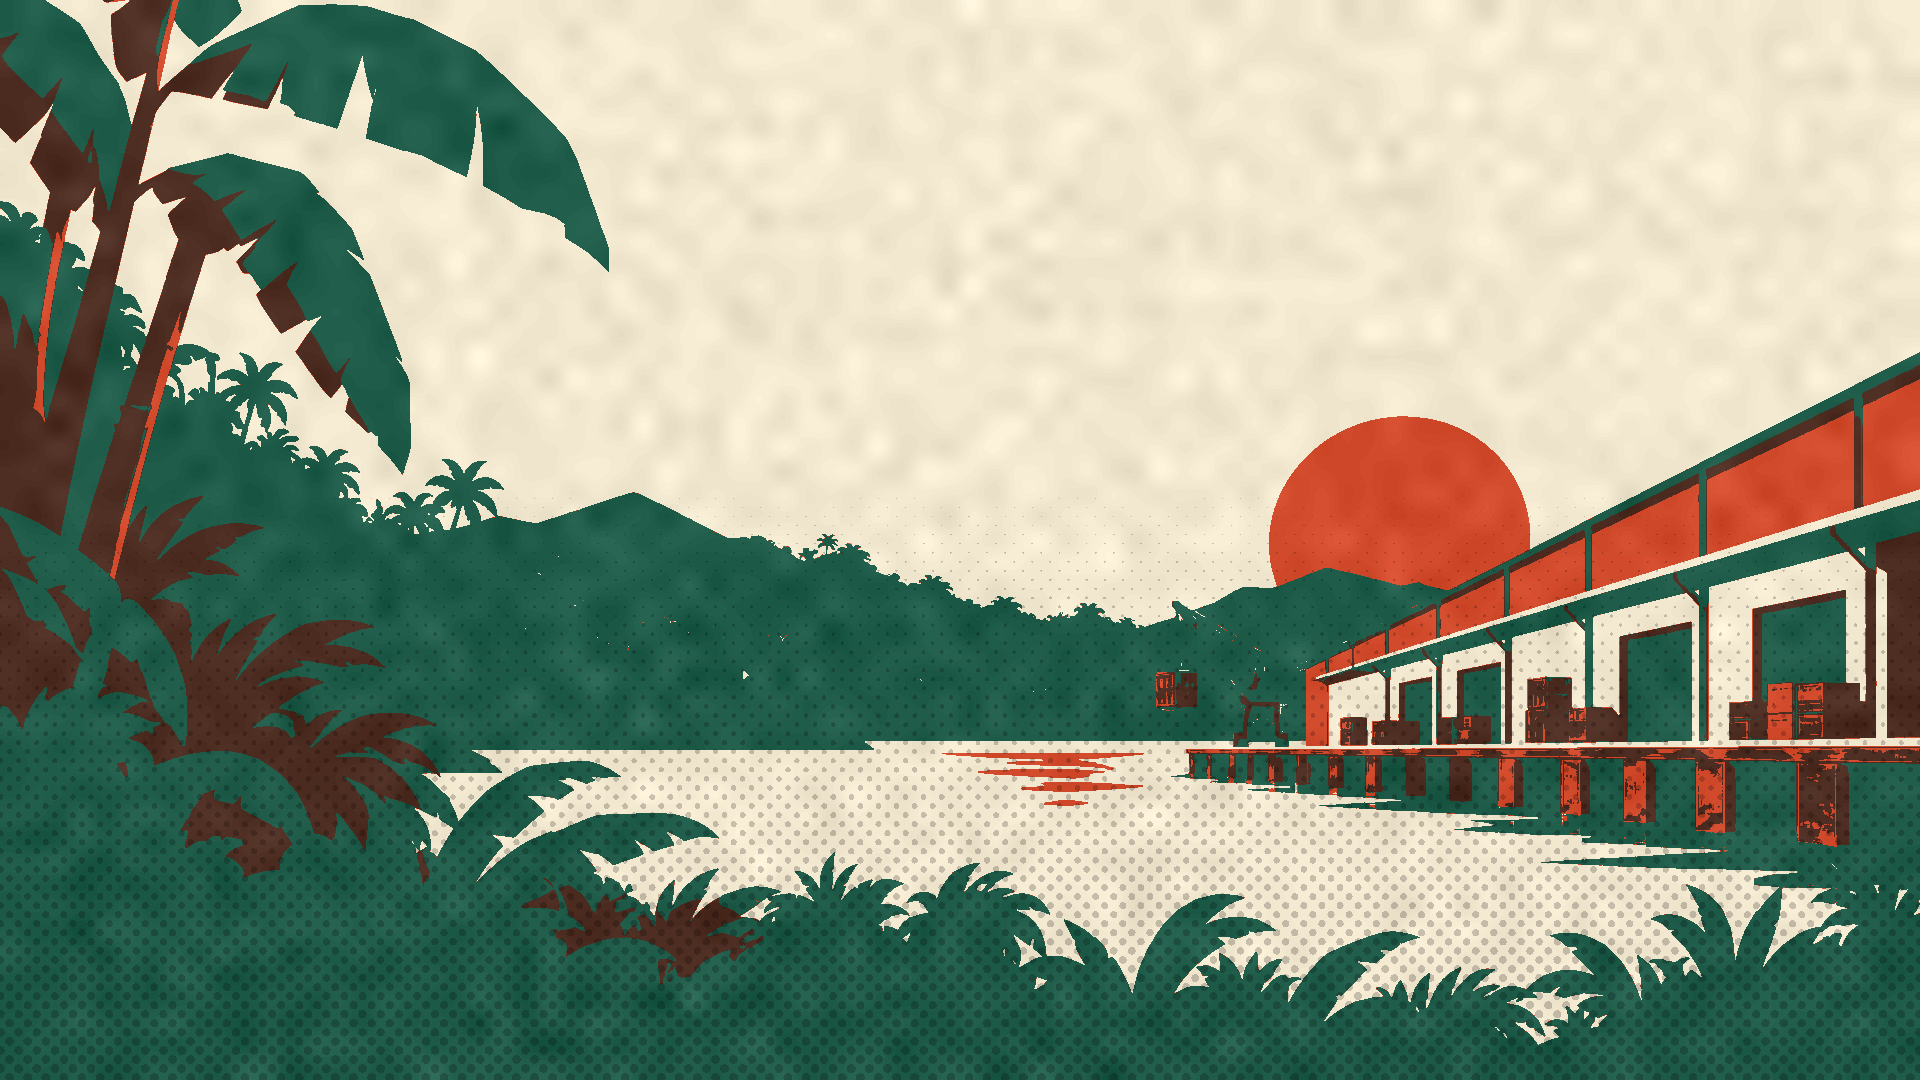
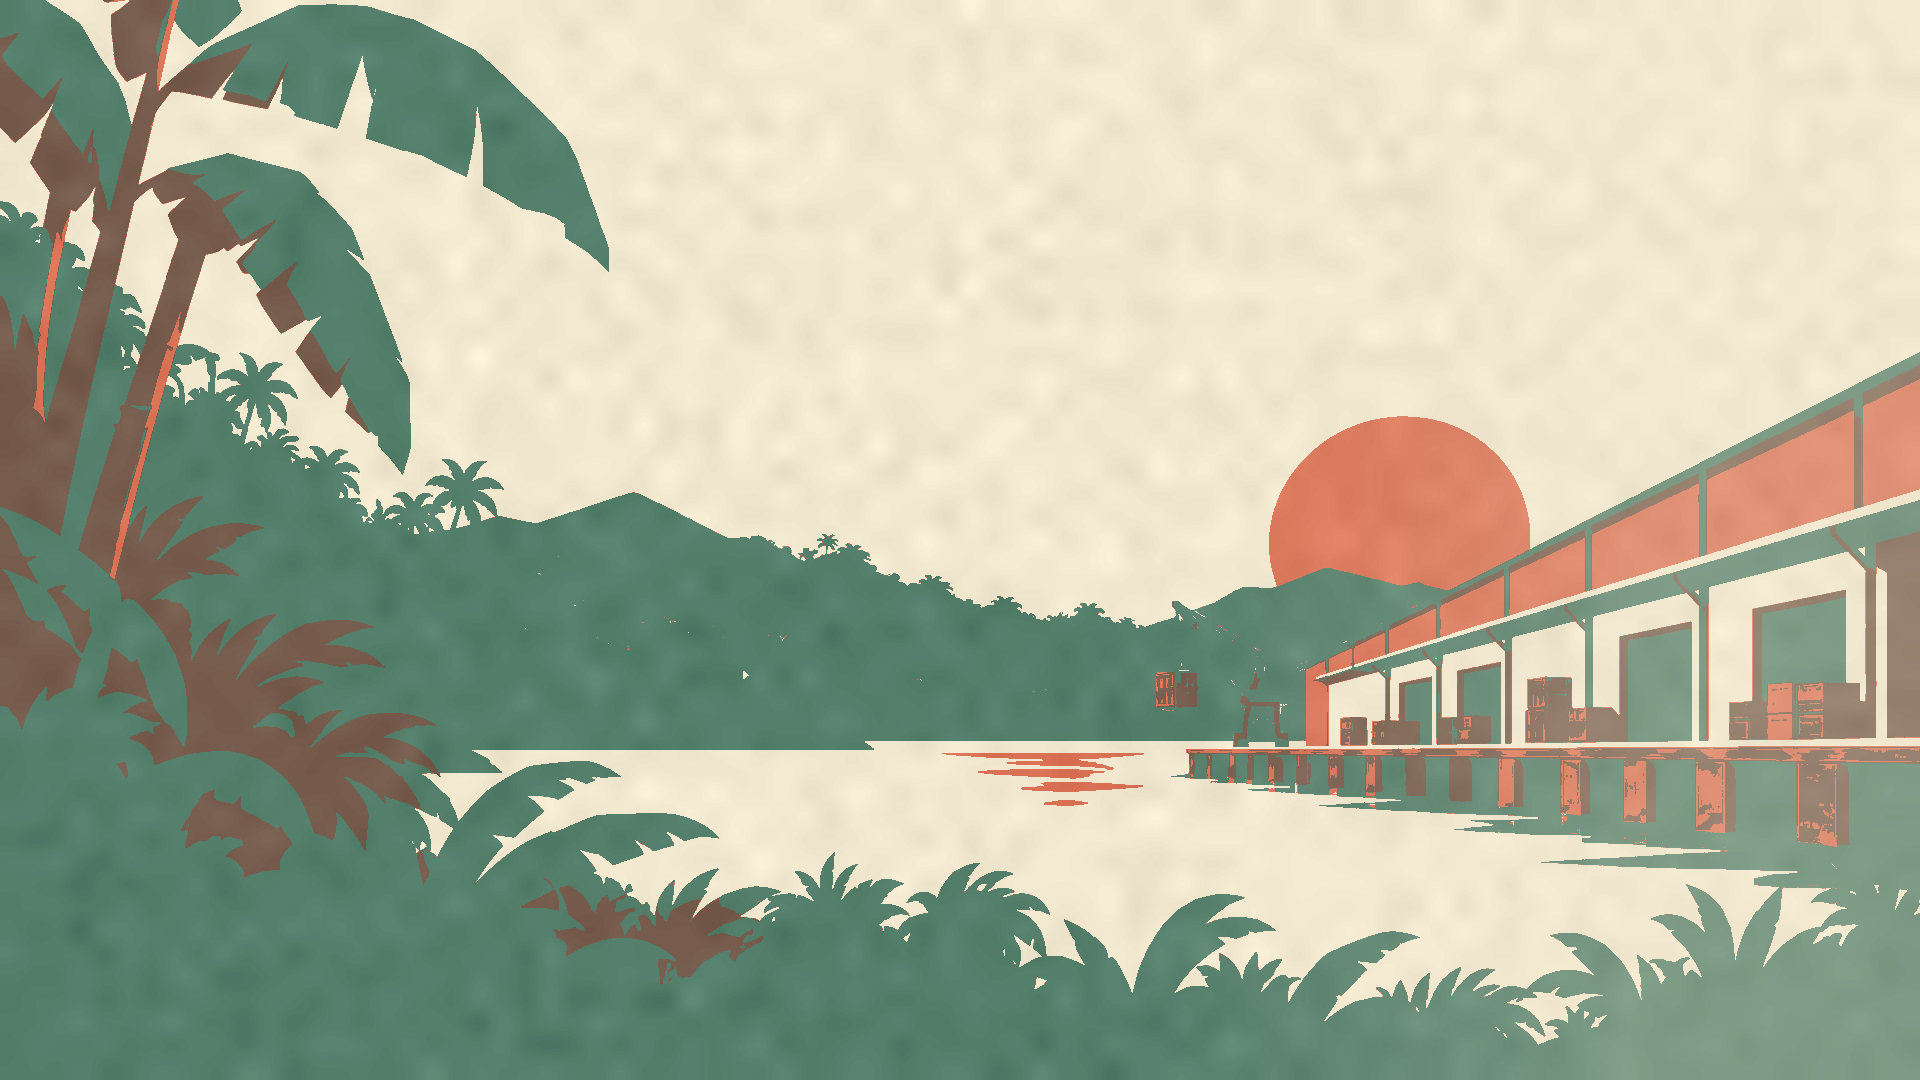
fix(GoBanandit): 背景退底讓人物清楚，拿掉兩隻的紙色聚光
背景的紅太陽與紅綠倉庫和大盜身上同色，上一版又加了網點，人物糊進背景；
紙色聚光則像一塊白板。

- print_finish.py：背景不加網點，整張往紙色退 25%，人物所在的右側平滑漸增到 45%
  （無邊界）；主遊戲／免費遊戲背景都套用
- Mascot：兩隻都拿掉紙色聚光，只留墨色錯版陰影
- cover art BG 用新背景重出

diff --git a/apps/GoBanandit/src/components/Mascot.svelte b/apps/GoBanandit/src/components/Mascot.svelte
@@ -515,19 +515,10 @@
 {#if placement}
 	{#key cast.key}
 	<Container>
-	{#if context.stateGame.gameType === 'freegame'}
-		<!-- A single flat paper spotlight keeps the green Lookout readable on the
-		     green warehouse wall without drawing a contour around the figure.
-		     Not behind the Bandit: on him it read as a pale panel stuck on the
-		     backdrop (user, 2026-10-04) — the ink shadow separates him. -->
-		<Container x={placement.x} y={placement.y} scale={placement.scale} zIndex={-2}>
-			<Graphics draw={(g) => {
-				g.clear();
-				g.poly([-310, -930, 230, -930, 300, 0, -300, 0]);
-				g.fill({ color: 0xf2e8d0, alpha: 0.42 });
-			}} />
-		</Container>
-	{/if}
+	<!-- No paper spotlight behind either figure: it read as a pale slab stuck on
+	     the backdrop (user, 2026-10-04). The backdrops are knocked back toward
+	     the paper instead (design/print_finish.py) and the ink shadow below
+	     separates the figure. -->
 	<Container zIndex={-1} filters={castShadow}>
 	<SpineProvider
 		key={cast.key}

diff --git a/apps/GoBanandit/design/print_finish.py b/apps/GoBanandit/design/print_finish.py
@@ -90,7 +90,19 @@ def finish(rel, tier, rng):
     t = np.clip((np.arange(h)[:, None] - y0) / max(1, y1 - y0), 0, 1) * np.ones((1, w))
     cov = np.clip((t - 0.45) / 0.55, 0, 1) ** 1.4 * 0.38
     dots = halftone(h, w, max(5.0, w / 150), cov) & solid & ~ink
-    out[dots] = out[dots] * 0.8
+    if tier != "bg":
+        out[dots] = out[dots] * 0.8
+
+    # backdrops are KNOCKED BACK toward the paper instead: 25% everywhere,
+    # easing up to 45% across the right third where the cast stands. On the
+    # full-strength backdrop the Bandit's red and green were the sun's and the
+    # warehouse's own inks and he disappeared into them; halftone dots made it
+    # worse, and a pale panel behind him read as a white slab (user,
+    # 2026-10-04). A gradient has no edge to see.
+    if tier == "bg":
+        xg = np.linspace(0, 1, w)[None, :, None]
+        kb = 0.25 + 0.20 * np.clip((xg - 0.55) / 0.3, 0, 1) ** 1.5
+        out = out * (1 - kb) + np.array((242, 232, 208), float) * kb
 
     # 3. the tier sunburst: halftone rays fanning from above the plate, in the
     #    paper only, denser each tier
